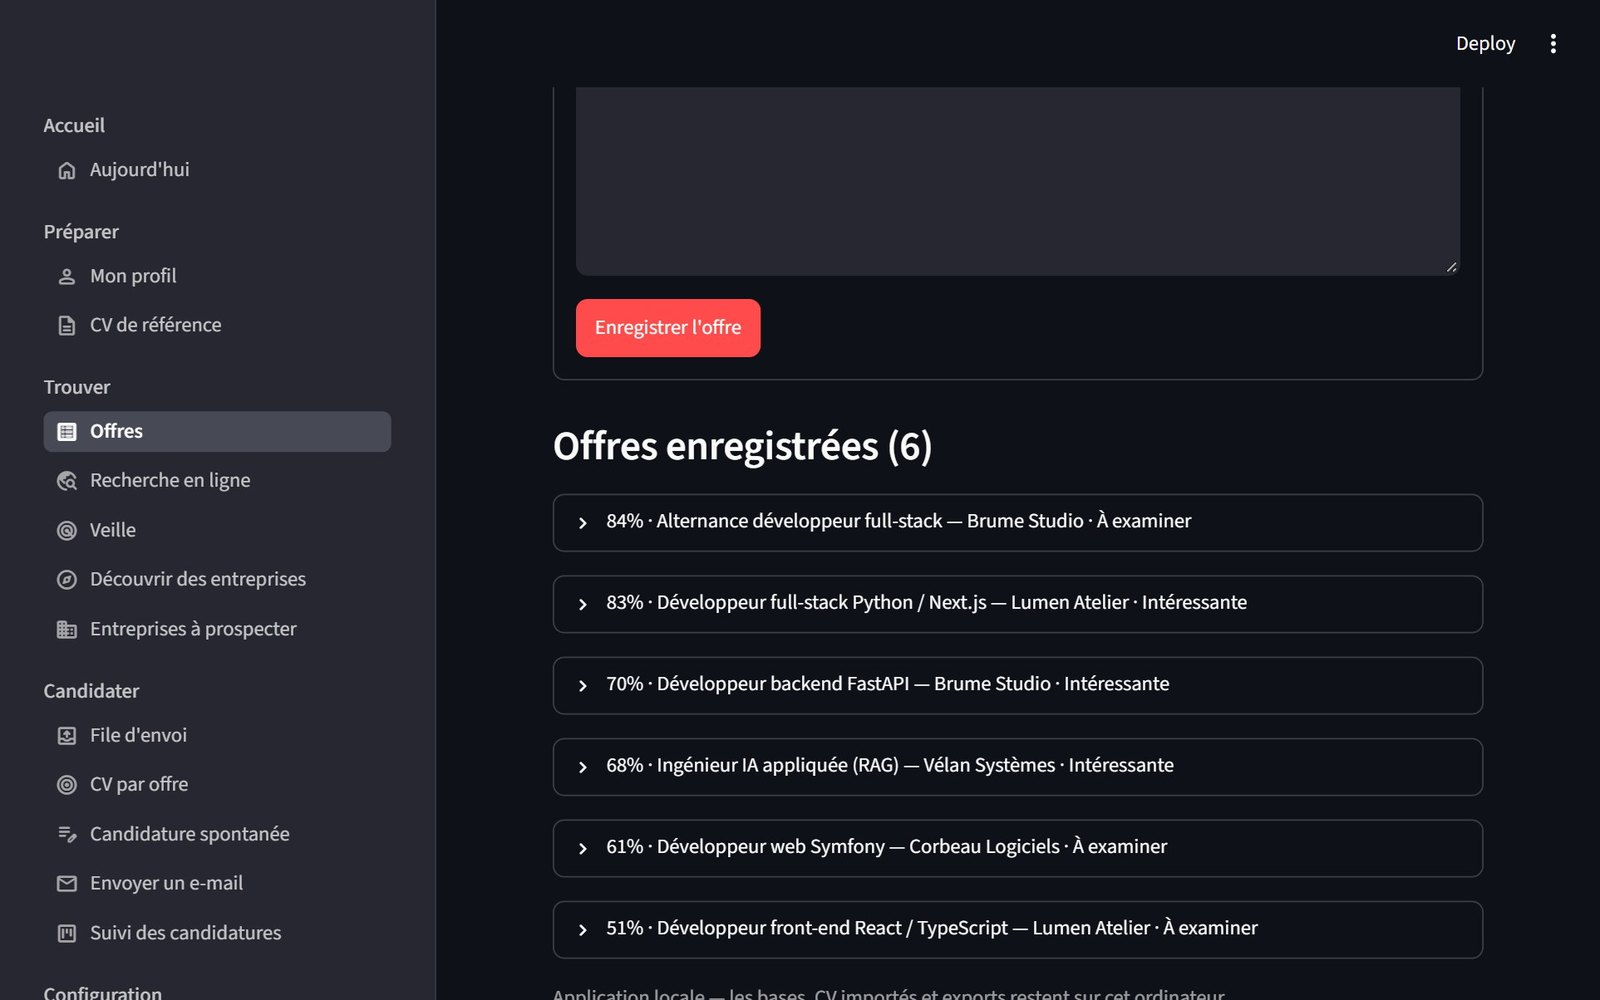
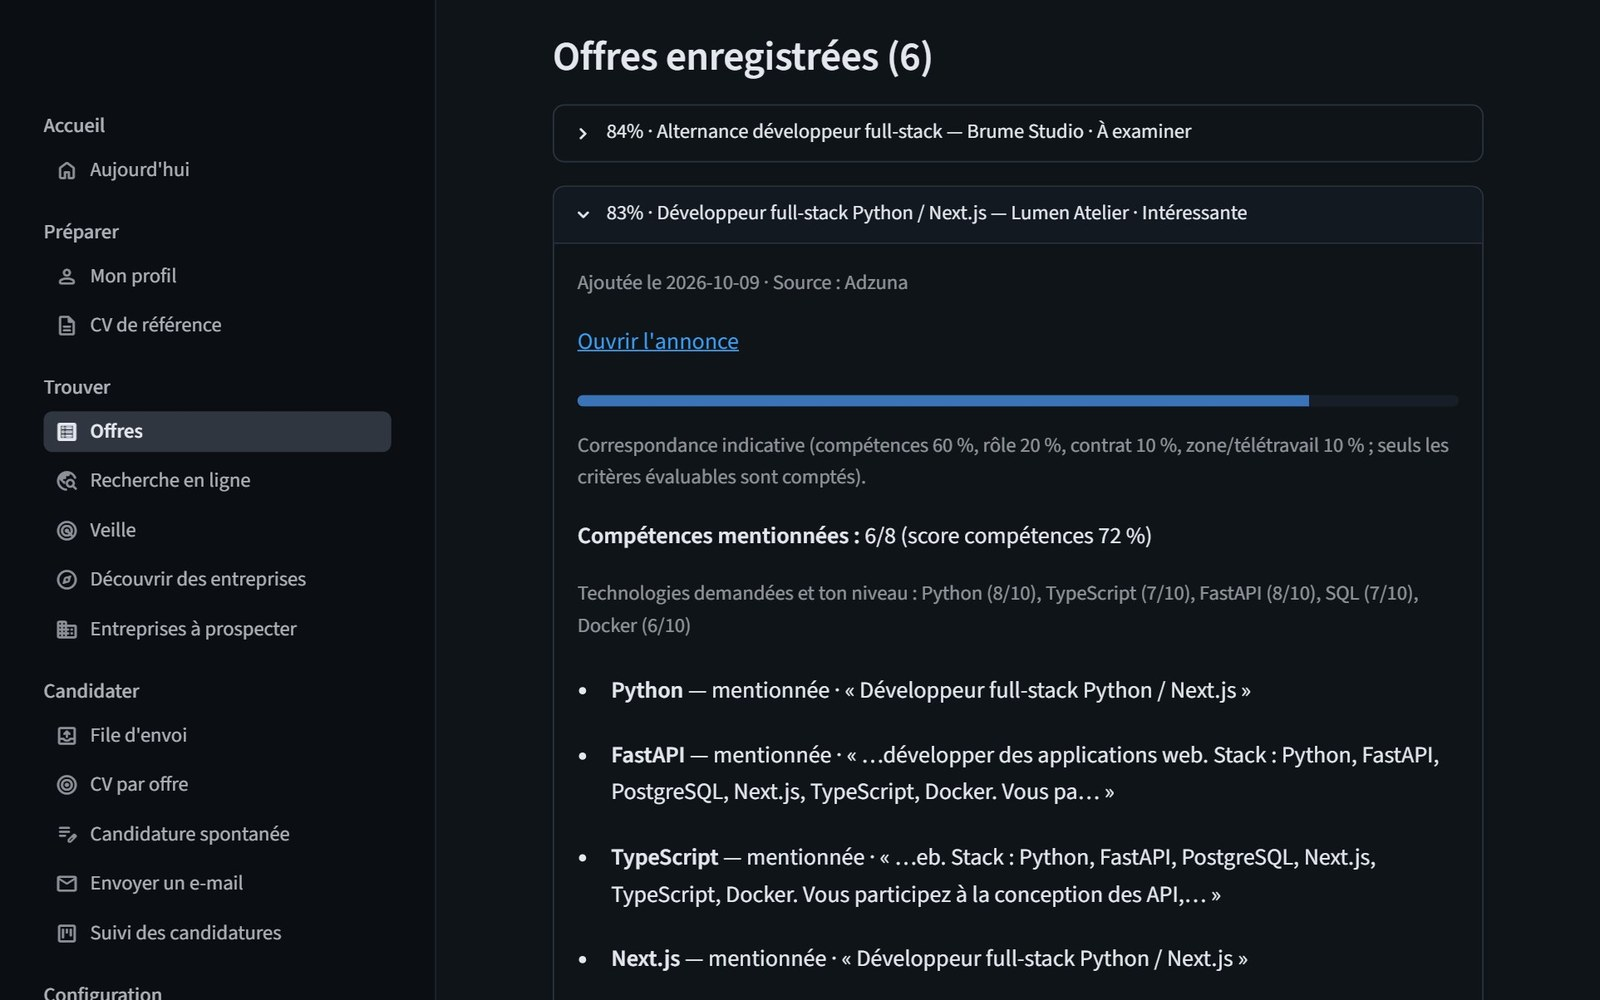
README : captures mises à jour (thème sombre, détail d'une offre)

diff --git a/README.md b/README.md
@@ -6,9 +6,9 @@ Tout reste sur la machine : base SQLite, CV, lettres et exports. Rien n'est envo
 
 ## Aperçu
 
-Captures réalisées avec un profil et des offres d'exemple (aucune donnée personnelle).
+Captures réalisées avec un profil et des offres d'exemple (aucune donnée personnelle), dans le thème sombre de l'application.
 
-| Suivi des candidatures | Offres classées par correspondance |
+| Suivi des candidatures | Offre classée par correspondance, détail du calcul |
 | --- | --- |
 | ![Suivi des candidatures](docs/screenshots/suivi-candidatures.jpg) | ![Offres enregistrées](docs/screenshots/offres.jpg) |
 
